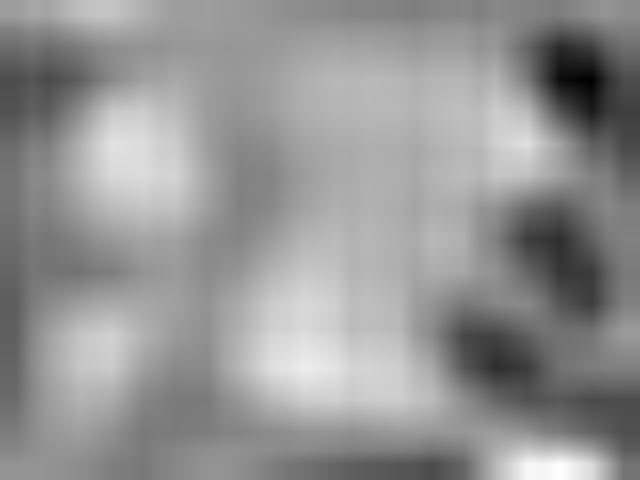
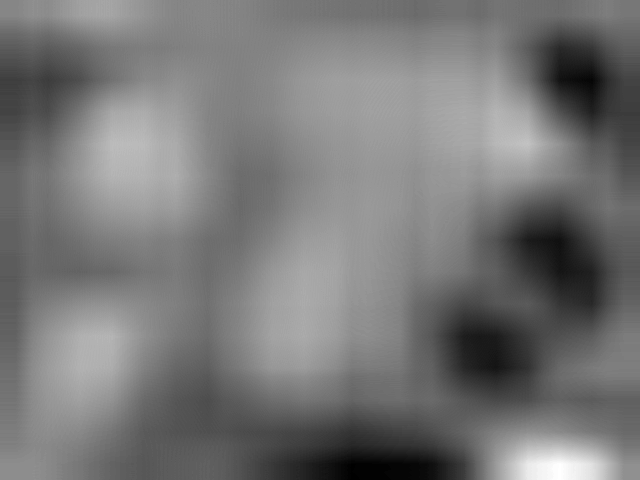
Fixed function time-lap. Big opti laplacian process. Using smoother filter

diff --git a/convolution.py b/convolution.py
@@ -2,50 +2,26 @@ import cv2 as ocv
 import numpy as np
 import time_stamp as ts
 
-# On suppose que l'image passée en argument a une taille qui marchera avec le filtre et le shift voulu
 
 def convolve(imIn, kernel, shift, pad):
-    ts.tour("convolve start", "convolve")
-    # Isolation de la forme de l'image ET du filtre
-    (i_height, i_width) = imIn.shape
-    (k_height, k_width) = kernel.shape
+    ts.start_function("convolve")
+    imOut = ocv.filter2D(imIn, -1, kernel, borderType=ocv.BORDER_REPLICATE)
+    ts.tour("Convolution done", "convolve")
+    return imOut
 
-    # Copie de travail de l'image avec les bords qui recopient les valeurs excentrées
-    img_work = ocv.copyMakeBorder(
-        imIn, 
-        pad, 
-        pad, 
-        pad, 
-        pad, 
-        ocv.BORDER_REPLICATE
-    )
 
-    # Nouvelle taille d'image calculée selon le shift
-    new_shape = ((np.array(imIn.shape) + (2 * pad) - k_width) / shift) + 1
-    new_shape = new_shape.astype(int)
-
-    # Canevas vide
-    output = np.zeros(new_shape, dtype="float32")
-
-    # Convolution
-    l_out, c_out = 0, 0
-    decal = int((k_width - 1) / 2)
-
-    for l in range(pad, i_height+pad, shift):
-        for c in range(pad, i_width+pad, shift):
-            region = img_work[l - decal:l + decal + 1, c - decal:c + decal + 1].astype(float) # Region isolee dand l'image, de la taille du filtre
-            mat = region * kernel
-            output[l_out][c_out] = np.sum(mat)
-            c_out += 1
-        c_out = 0
-        l_out += 1
-
-    ts.tour("convolve done", "convolve")
-
-    return output
+def sample(imIn, rate=2):
+    ts.start_function("sample")
+    (i_h, i_w) = imIn.shape
+    (o_h, o_w) = (i_h // 2, i_w // 2)
+    
+    canvas = ocv.resize(imIn, (o_w, o_h), 1.0/rate, 1.0/rate, interpolation=ocv.INTER_NEAREST)
+    ts.tour("Subsampling done", "sample")
+    
+    return canvas
 
 def gaussian_pyramid_mono(imIn, threshold=10, stop=5):
-    ts.tour("gaussian mono start", "gaussian")
+    ts.start_function("gaussian")
     # Acquisition des données de l'image de base
     (i_height, i_width) = imIn.shape
     nb_pixels = i_height * i_width
@@ -57,93 +33,29 @@ def gaussian_pyramid_mono(imIn, threshold=10, stop=5):
     count = 0
 
     while((nb_pixels > threshold) and (count < stop)): # Sécurité de boucle infinie
-        produced = convolve(maps[-1], filtre, 2, 2)
+        produced = convolve(maps[-1], filtre, 1, 1)
+        produced = sample(produced)
         maps.append(produced)
         (i_height, i_width) = produced.shape
         nb_pixels = i_height * i_width
         count += 1
 
-    ts.tour("gaussian mono done", "gaussian")
+    ts.tour("Gaussian mono done", "gaussian")
 
     return maps
 
 # Fonction qui écrit toutes les images qui lui sont passées sous la forme d'un tableau
 def write_maps(maps, base_nom):
-    ts.tour("starting writing maps", "writer")
+    ts.start_function("writer")
     for index, map in enumerate(maps):
         nom = base_nom + "_" + str(index) + ".png"
         entiers = map.astype(int)
         ocv.imwrite(nom, entiers)
     ts.tour("maps written", "writer")
 
-# Fonction qui étend les maps gaussiennes à la taille de l'image génératrice
-def expend(maps):
-    ts.tour("expending ...", "expend")
-    target = maps[0].shape
-    output = []
-    factor = 1.0
-
-    for map in maps:
-        canvas = np.zeros(target)
-
-        for l in range(0, target[0]):
-            for c in range(0, target[1]):
-                index_l = int(l * factor)
-                index_c = int(c * factor)
-
-                canvas[l][c] = map[index_l][index_c]
-
-        output.append(canvas)
-        factor /= 2.0
-    ts.tour("expending done", "expend")
-    return output
-
-
-
-def gaussian_pyramid_old(imIn):
-    ts.tour("starting batch gaussian pyramid")
-    # Forme de l'image, profondeur comprise
-    sp = imIn.shape
-    # Canaux de l'image Gr || BGR
-    canaux = []
-
-    colored = len(sp) >= 3
-
-    if(not colored):
-        # Image en niveaux de gris
-        canaux.append(imIn)
-    else:
-        # 3 canaux de couleur
-        b, g, r = ocv.split(imIn)
-        canaux.append(b)
-        canaux.append(g)
-        canaux.append(r)
-
-    # Ne contient qu'une liste de maps pour mono channel
-    # Contient trois listes de maps pour tri channels
-    list_maps = []
-    for canal in canaux:
-        maps = gaussian_pyramid_mono(canal, 20, 10)
-        maps = expend(maps)
-        list_maps.append(maps)
-    
-    final_maps = []
-    canvas_size = list_maps[0][0].shape
-
-    if(colored):   
-        for b,g,r in zip(list_maps[0], list_maps[1], list_maps[2]):
-            canvas = ocv.merge((b,g,r))
-            final_maps.append(canvas)
-        pass
-    else:
-        final_maps = list_maps[0]
-        pass
-    ts.tour("batch gaussian done")
-    return final_maps
-
 
 def gaussian_pyramid(imIn, complete=True):
-    ts.tour("starting batch gaussian pyramid", "gaussian pyramid")
+    ts.start_function("gaussian pyramid")
     # Forme de l'image, profondeur comprise
     sp = imIn.shape
     # Canaux de l'image Gr || BGR
@@ -193,27 +105,20 @@ def gaussian_pyramid(imIn, complete=True):
         return final_maps
 
 
-def different(a, b):
-    if (a == b):
-        return 255
-    else:
-        return 0
 
 def laplacian_pyramid(img, bw=False):
     gaussian = gaussian_pyramid(img, False)
     colored = gaussian[0]
     maps = gaussian[1]
     maps_lapla = []
-    if(colored):
-        ts.tour("start exclu laplacian RGB", "laplacian")
-    else:
-        ts.tour("start exclu laplacian B&W", "laplacian")
+
+    ts.start_function("laplacian")
     
     if(colored):
         for index in range(len(maps[0]) - 1):
-            lapla_b = maps[0][index] - maps[0][index + 1]
-            lapla_g = maps[1][index] - maps[1][index + 1]
-            lapla_r = maps[2][index] - maps[2][index + 1]
+            lapla_b = maps[0][index] - maps[0][index + 1] + 128
+            lapla_g = maps[1][index] - maps[1][index + 1] + 128
+            lapla_r = maps[2][index] - maps[2][index + 1] + 128
             canvas = None
             if(bw):
                 canvas = lapla_b + lapla_g + lapla_r
@@ -223,11 +128,16 @@ def laplacian_pyramid(img, bw=False):
             canvas = ocv.normalize(canvas, None, 0, 255, ocv.NORM_MINMAX)
             maps_lapla.append(canvas)
     else:
+        iv = 0
         for index in range(len(maps[0]) - 1):
-            lapla = maps[0][index] - maps[0][index + 1]
+            lapla = maps[0][index] - maps[0][index + 1] + 128
             canvas = ocv.normalize(lapla, None, 0, 255, ocv.NORM_MINMAX)
             maps_lapla.append(canvas)
-    ts.tour("end exclu laplacian", "laplacian")
+    
+    if(colored):
+        ts.tour("Laplacian colored done", "laplacian")
+    else:
+        ts.tour("Laplacian b&w done", "laplacian")
     return maps_lapla
 
 
@@ -240,22 +150,21 @@ def testing_4():
     img2 = ocv.imread("data/baboon.jpg", -1)
 
     ts.tour("~~~ START LAPLACIAN ~~~", "testing")
-    #maps0 = gaussian_pyramid(img)
-    #ts.tour("GAUSSIAN IMG B&W", "testing")
-    #maps3 = gaussian_pyramid(img2)
-    #ts.tour("GAUSSIAN IMG RGB", "testing")
+    maps0 = gaussian_pyramid(img)
+    ts.tour("GAUSSIAN IMG B&W", "testing")
+    maps3 = gaussian_pyramid(img2)
+    ts.tour("GAUSSIAN IMG RGB", "testing")
 
     maps1 = laplacian_pyramid(img)
     ts.tour("LAPLACIAN IMG B&W", "testing")
     maps2 = laplacian_pyramid(img2)
     ts.tour("LAPLACIAN IMG RGB", "testing")
 
-    #write_maps(maps0, "output/gaussian/g_map_bw")
-    #write_maps(maps3, "output/gaussian/g_map_rgb")
+    write_maps(maps0, "output/gaussian/g_map_bw")
+    write_maps(maps3, "output/gaussian/g_map_rgb")
     write_maps(maps1, "output/laplacian/g_map_bw")
     write_maps(maps2, "output/laplacian/g_map_rgb")
 
-    pass
 
 # # # # # # # # # # # # # # # # # # # # # # # # # # # # # # # # # # # # # # # # # # # # # # #
 #            MAIN()                                                                         #

diff --git a/time_stamp.py b/time_stamp.py
@@ -47,6 +47,9 @@ def reset(all_vars=False):
 # Measures the time ellaŝed between two calls of this function, with 'txt' as log-line
 # Automatic saving in a list
 
+def start_function(id):
+    previous[id] = time.time()
+
 def tour(txt, id):
     global previous
 
